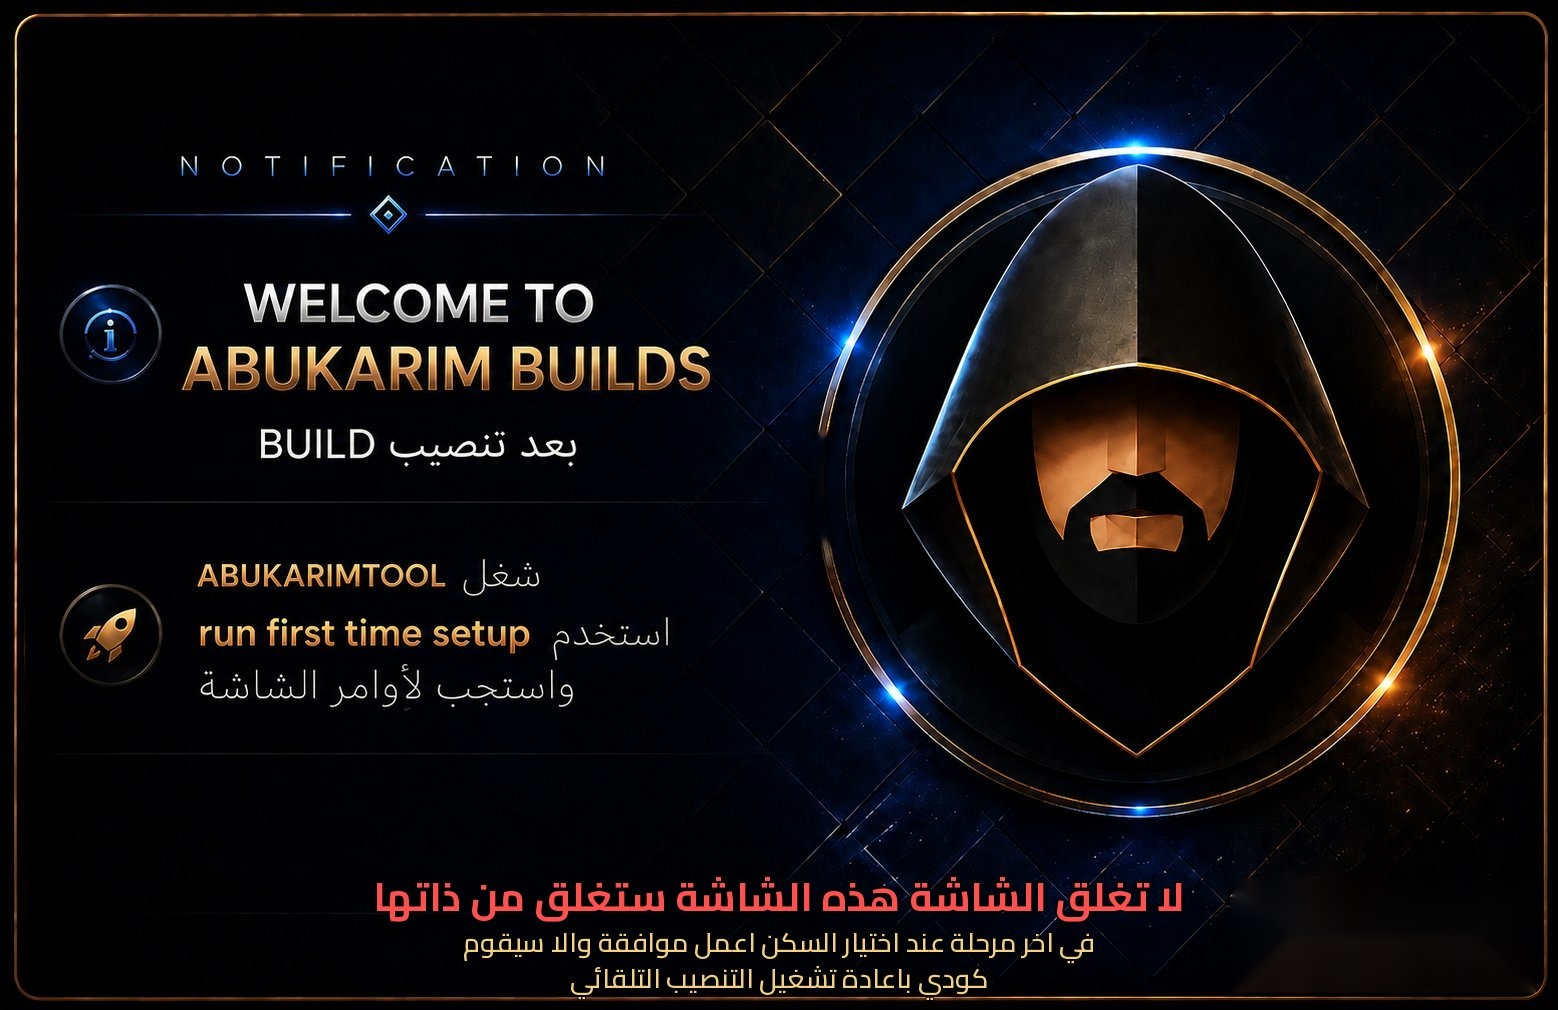
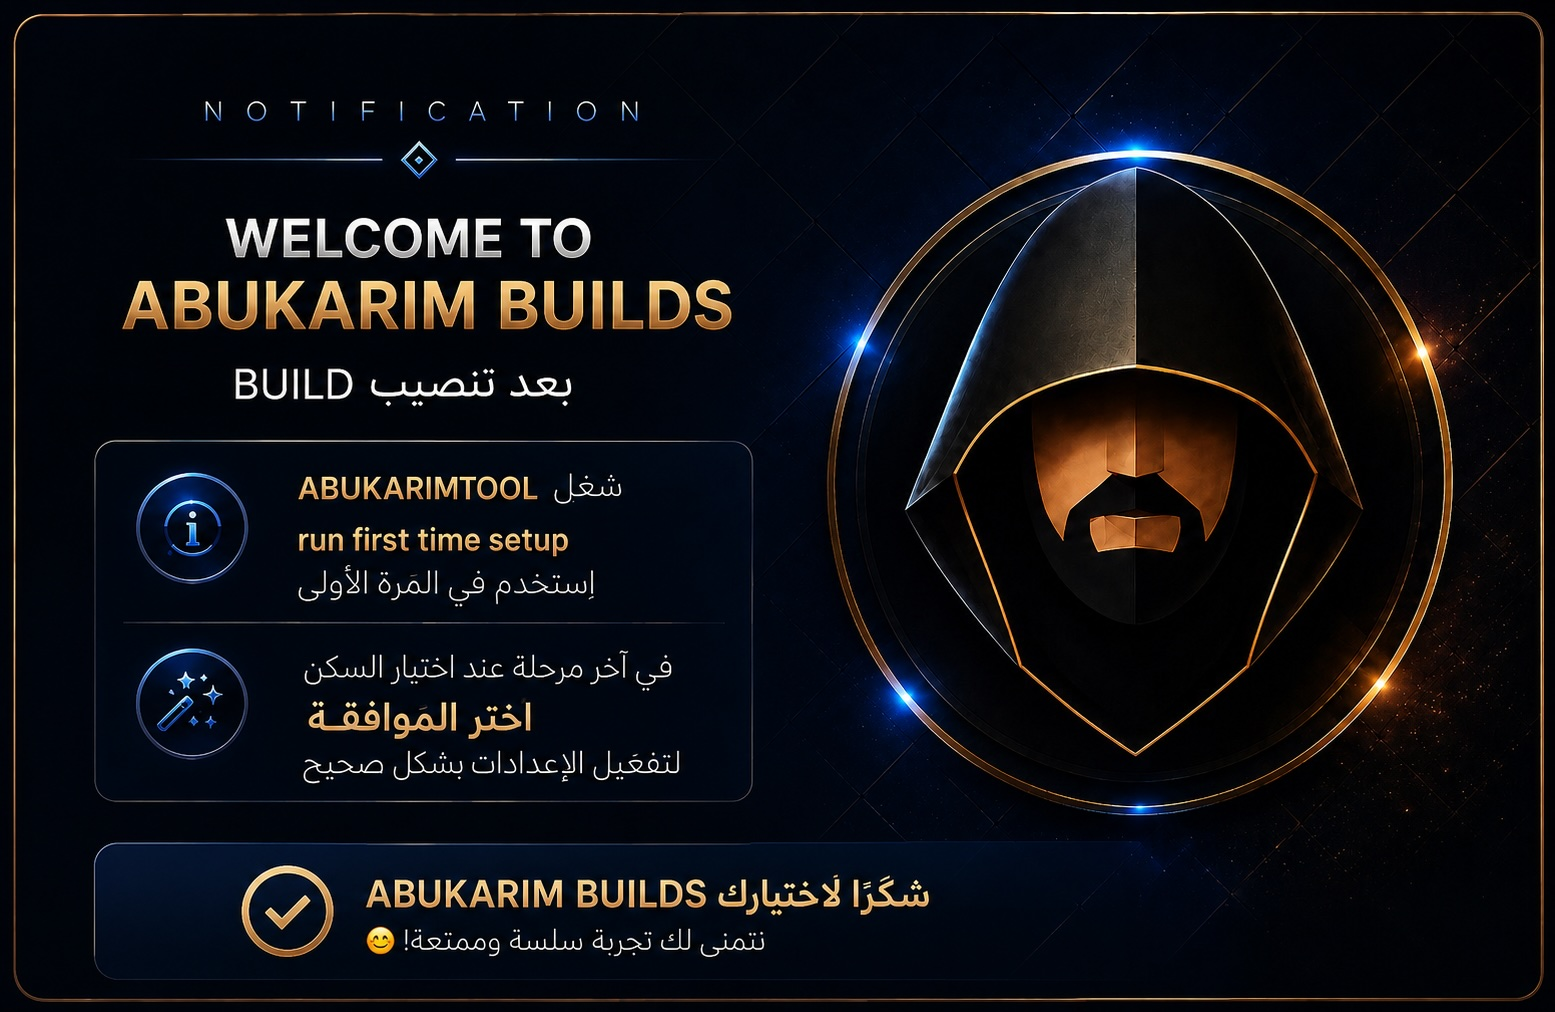
fix

diff --git a/repo/plugin.program.abukarimtools/service.py b/repo/plugin.program.abukarimtools/service.py
@@ -47,6 +47,16 @@ WELCOME_SECONDS = 7
 DONE_FILE = os.path.join(PROFILE, 'first_run.done')
 LOCK_FILE = os.path.join(PROFILE, 'first_run.lock')
 
+# Self-trigger: a new build apply replaces the addons/ folder wholesale, so a
+# version string shipped INSIDE the addon is always fresh after an install.
+# We compare it against a copy stored in addon_data; if they differ (or the
+# addon_data copy is missing — e.g. wiped by the build's restore), a new build
+# was applied and we (re)create the first-run flag. The wipe can only REMOVE
+# LAST_BUILD_FILE, which makes first-run more likely to fire, never less, so the
+# trigger is immune to the addon_data wipe.
+BUILD_ID_FILE   = os.path.join(ADDON_PATH, 'resources', 'build.id')   # shipped
+LAST_BUILD_FILE = os.path.join(PROFILE, 'last_build.id')              # addon_data
+
 WIZARD_ID   = 'plugin.program.ABUKARIMwizard'
 
 # How long (seconds) to wait for Kodi/wizard to settle before starting.
@@ -432,9 +442,105 @@ def _run_steps(monitor):
 
     _log('First-run sequence finished.')
 
+    # On CoreELEC, prompt to reboot so autostart.sh runs on a clean boot
+    # (e.g. the staged guisettings restore). Wait ~10s after the skin loads so
+    # the prompt doesn't fight the skin reload, then ask; YES reboots.
+    _prompt_reboot_if_coreelec(monitor)
+
+
+def _is_coreelec():
+    """True on a CoreELEC installation (same check the binary installer uses)."""
+    if os.path.isdir('/etc/coreelec'):
+        return True
+    try:
+        with open('/etc/os-release') as f:
+            return any('coreelec' in line.lower() for line in f)
+    except OSError:
+        return False
+
+
+def _prompt_reboot_if_coreelec(monitor):
+    if not _is_coreelec():
+        _log('Reboot prompt skipped (not CoreELEC).')
+        return
+    # Let the freshly-loaded skin settle before showing the dialog.
+    if monitor.waitForAbort(10):
+        return  # Kodi is shutting down anyway
+    # Make sure no modal is in the way.
+    _wait_no_modal(monitor)
+    try:
+        yes = xbmcgui.Dialog().yesno(
+            ADDON_NAME,
+            'تم إكمال الإعداد.\n'
+            'يُنصح بإعادة التشغيل لإكمال تطبيق البناء.\n'
+            'هل تريد إعادة التشغيل الآن؟\n\n'
+            'Setup is complete. A reboot is recommended to finish '
+            'applying your build. Reboot now?',
+            nolabel='لاحقاً / Later', yeslabel='إعادة التشغيل / Reboot')
+    except Exception as e:
+        _log('Reboot dialog failed: %s' % e)
+        return
+    if yes:
+        _log('User chose reboot — rebooting system.')
+        xbmc.executebuiltin('Reboot')
+    else:
+        _log('User postponed reboot.')
+
+
+def _read_text(path):
+    try:
+        with open(path, 'r', encoding='utf-8') as f:
+            return f.read().strip()
+    except Exception:
+        return ''
+
+
+def _new_build_applied():
+    """True if the shipped build.id differs from the addon_data copy.
+
+    Returns (changed: bool, build_id: str). If no build.id ships with the addon
+    we return (False, '') so behaviour is unchanged for builds that don't use
+    this mechanism.
+    """
+    build_id = _read_text(BUILD_ID_FILE)
+    if not build_id:
+        return False, ''
+    return (build_id != _read_text(LAST_BUILD_FILE)), build_id
+
+
+def _record_build(build_id):
+    try:
+        os.makedirs(PROFILE, exist_ok=True)
+        with open(LAST_BUILD_FILE, 'w', encoding='utf-8') as f:
+            f.write(build_id)
+        _log('Recorded build id: %s' % build_id)
+    except Exception as e:
+        _log('Could not record build id: %s' % e)
+
 
 def main():
     monitor = xbmc.Monitor()
+
+    # Self-trigger: if a new build was applied (shipped build.id != stored copy),
+    # (re)create the first-run flag and clear the stale done/lock so the full
+    # sequence runs for this build. Manual first_run.flag still works as before.
+    changed, build_id = _new_build_applied()
+    if changed:
+        _log('New build detected (%s) — arming first-run.' % build_id)
+        for stale in (DONE_FILE, LOCK_FILE):
+            try:
+                if os.path.exists(stale):
+                    os.remove(stale)
+            except Exception as e:
+                _log('Could not clear %s: %s' % (stale, e))
+        try:
+            os.makedirs(PROFILE, exist_ok=True)
+            open(FLAG_FILE, 'w').close()
+        except Exception as e:
+            _log('Could not create first-run flag: %s' % e)
+        # Record now so a mid-sequence reboot doesn't re-arm endlessly; the
+        # done marker (written on completion) is the real repeat guard.
+        _record_build(build_id)
 
     if not os.path.exists(FLAG_FILE):
         return                       # normal boot — nothing to do